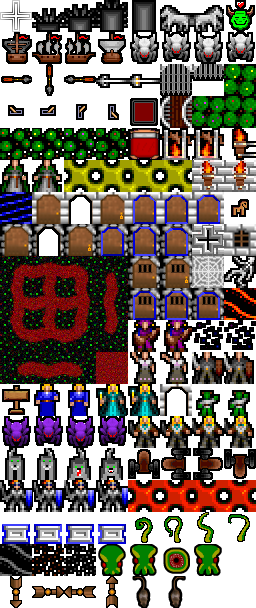
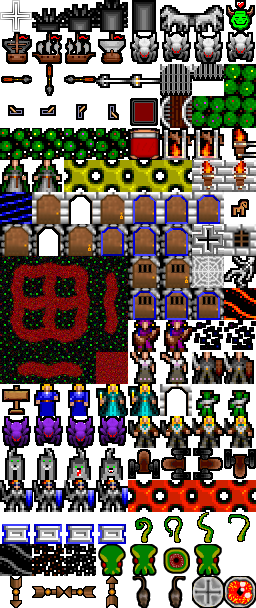
kernel: o Added kern-image-load o Added kern-image-free o Moved kern-map-set-image
haxima:
o Added Eye of Brune to Brundegardt tower

Changed region(s): [[0.75, 0.9375, 1.0, 1.0]]

diff --git a/src/kern.c b/src/kern.c
@@ -69,6 +69,7 @@
 #include "cmdwin.h"
 #include "cfg.h"
 #include "menus.h"
+#include "file.h"
 
 #include <assert.h>
 #include <ctype.h>              // isspace()
@@ -5329,6 +5330,63 @@ KERN_API_CALL(kern_map_set_jitter)
         return sc->T;
 }
 
+KERN_API_CALL(kern_image_load)
+{
+        char *fname, *path;
+        SDL_Surface *image = 0;
+
+        if (unpack(sc, &args, "s", &fname)) {
+                rt_err("kern-image-load: bad args");
+                return sc->NIL;
+        }
+
+        path = file_mkpath(cfg_get("include-dirname"), fname);
+        if (! path) {
+                rt_err("kern-image-load: %s", file_get_error());
+                return sc->NIL;
+        }
+
+        image = IMG_Load(path);
+        if (! image) {
+                rt_err("kern-image-load: %s", SDL_GetError());
+        }
+        free(path);
+
+        return scm_mk_ptr(sc, image);
+}
+
+KERN_API_CALL(kern_image_free)
+{
+        SDL_Surface *image;
+
+        if (unpack(sc, &args, "p", &image)) {
+                rt_err("kern-image-free: bad args");
+                return sc->NIL;
+        }
+
+        SDL_FreeSurface(image);
+        return sc->NIL;
+}
+
+KERN_API_CALL(kern_map_set_image)
+{
+        SDL_Surface *image;
+
+        if (unpack(sc, &args, "p", &image)) {
+                rt_err("kern-map-set-image: bad args");
+                return sc->NIL;
+        }
+
+        if (!image) {
+                mapClearImage();
+                mapUpdate(0);
+                return sc->NIL;
+        }
+
+        mapSetImage(image);
+        return sc->NIL;
+}
+
 KERN_API_CALL(kern_char_kill)
 {
         class Character *ch;
@@ -8140,6 +8198,7 @@ scheme *kern_init(void)
         API_DECL(sc, "kern-map-flash", kern_map_flash);
         API_DECL(sc, "kern-map-repaint", kern_map_repaint);
         API_DECL(sc, "kern-map-set-dirty", kern_map_set_dirty);
+        API_DECL(sc, "kern-map-set-image", kern_map_set_image);
         API_DECL(sc, "kern-map-set-jitter", kern_map_set_jitter);
         API_DECL(sc, "kern-map-set-peering", kern_map_set_peering);
         API_DECL(sc, "kern-map-view-create", kern_map_view_create);
@@ -8180,6 +8239,10 @@ scheme *kern_init(void)
         /* kern-cfg api */
         API_DECL(sc, "kern-cfg-set", kern_cfg_set);
         API_DECL(sc, "kern-cfg-get", kern_cfg_get);
+
+        /* kern-image api */
+        API_DECL(sc, "kern-image-load", kern_image_load);
+        API_DECL(sc, "kern-image-free", kern_image_free);
 
         /* obsolete (keep these until old save games are unlikely to use
          * them) */

diff --git a/src/map.c b/src/map.c
@@ -1696,7 +1696,18 @@ void mapSetImage(SDL_Surface *image)
 {
         Map.is_image_mode = 1;
         if (image) {
-                screenBlit(image, NULL, &Map.srect);
+                /* center the image over the map */
+                SDL_Rect rect = Map.srect;
+                if (image->w < Map.srect.w) {
+                        rect.x = Map.srect.x + (Map.srect.w - image->w) / 2;
+                        rect.w = image->w;
+                }
+                if (image->h < Map.srect.h) {
+                        rect.y = Map.srect.y + (Map.srect.h - image->h) / 2;
+                        rect.h = image->h;
+                }
+                screenErase(&Map.srect);
+                screenBlit(image, NULL, &rect);
         } else {
                 screenErase(&Map.srect);
         }
